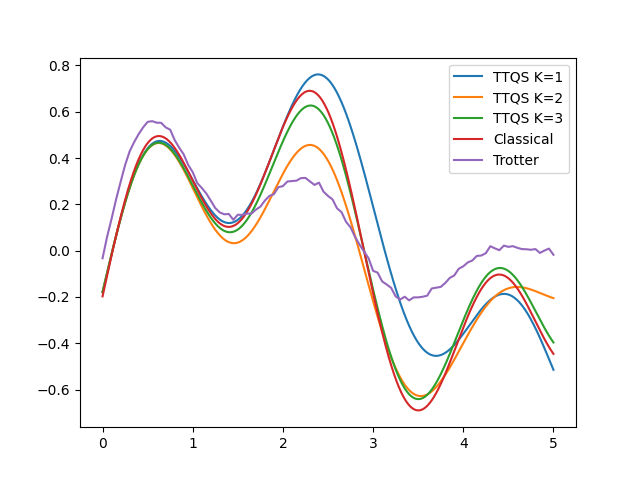
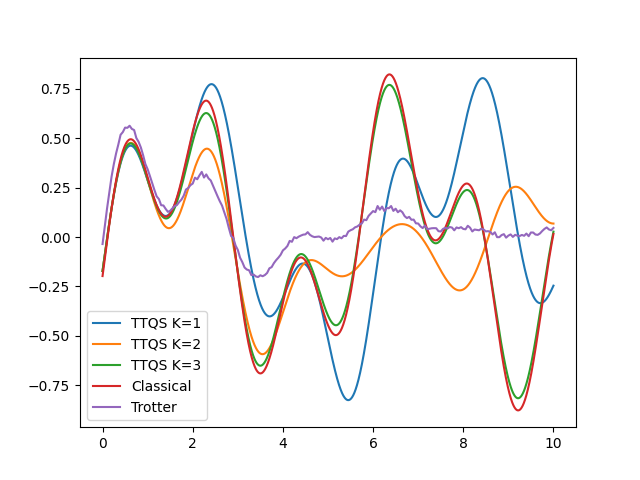
Jon Trot

diff --git a/Forjontoteststuff.py b/Forjontoteststuff.py
@@ -18,13 +18,13 @@ timer_starttime = time.time()
 #Parameters
 uptowhatK = 3
 num_qubits = 2
-endtime = 5
-num_steps = 5001
+endtime = 10
+num_steps = 10001
 optimizer ='eigh' #'eigh','qcqp'
 inv_cond = 10**(-3)
 numberoflayers = 3
 
-trotter_num_steps = 101
+trotter_num_steps = 201
 trotter_timestep = endtime/(trotter_num_steps-1)
 
 #create initial state
